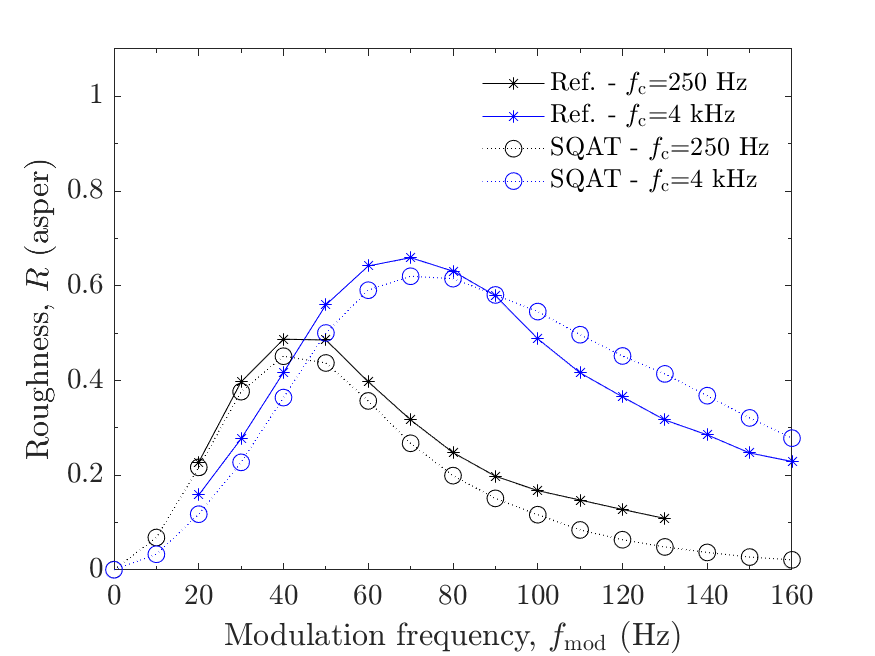
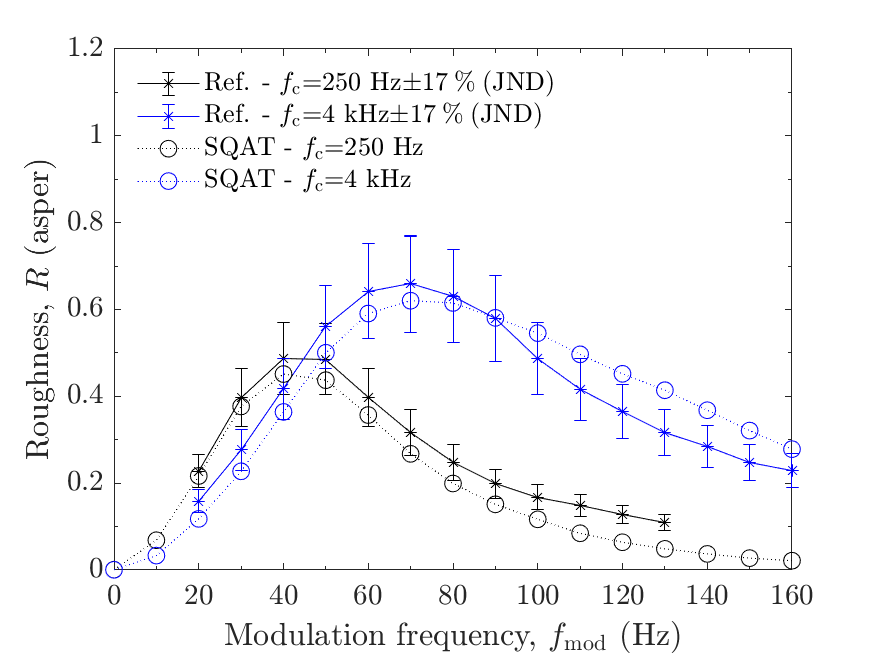
run_verification_roughness_modulation_depth
- updated script structure and folder
-  updated script to run with sound inputs from the validation_SQAT_v1_0 folder
- generate figures
_ status (running)

diff --git a/validation/Roughness_Daniel1997/1_modulation_freq/run_validation_roughness_fmod.m b/validation/Roughness_Daniel1997/1_modulation_freq/run_validation_roughness_fmod.m
@@ -13,7 +13,7 @@
 %     (refer to the function in the end of this script to see how the
 %     signals were originally generated)
 %
-% Author: Gil Greco, Braunschweig, 21/02/2020 (updated 10.09.2023)
+% Author: Gil Greco, Braunschweig, 21/02/2020 (updated 13.05.2023)
 %%%%%%%%%%%%%%%%%%%%%%%%%%%%%%%%%%%%%%%%%%%%%%%%%%%%%%%%%%%%%%%%%%%%%%%%%%%
 clc; clear all; close all;
 
@@ -217,8 +217,15 @@ set(h,'PaperPositionMode','Auto','PaperUnits','Inches','PaperSize',[pos(3), pos(
 fmod_125=20:10:100;  % modulation freq vector for reference values 
 fmod=20:10:160;  % modulation freq vector for reference values 
 
-plot(fmod_125,fmod_125hz,'k-*','MarkerSize',6);hold all;
-plot(fmod,fmod_500hz,'b-*','MarkerSize',6);hold all;
+err_125hz= (0.17*fmod_125hz);
+errorbar(fmod_125,fmod_125hz,err_125hz,'k-*','MarkerSize',6,'Linewidth',.5);hold all % results from SQAT
+
+% plot(fmod_125,fmod_125hz,'k-*','MarkerSize',6);hold all;
+
+err_500hz= (0.17*fmod_500hz);
+errorbar(fmod,fmod_500hz,err_500hz,'b-*','MarkerSize',6,'Linewidth',.5);hold all % results from SQAT
+
+% plot(fmod,fmod_500hz,'b-*','MarkerSize',6);hold all;
 
 % plot computed results
 fmod_125_computed=0:10:100;  % modulation freq vector for reference values 
@@ -227,22 +234,22 @@ fmod_computed=0:10:160;      % modulation freq vector for reference values
 plot(fmod_125_computed,results_125hz(1:11),'ko:','MarkerSize',8);hold all;
 plot(fmod_computed,results_500hz,'bo:','MarkerSize',8);
 
-legend('Ref. - $f_{\mathrm{c}}$=125 Hz',...
-       'Ref. - $f_{\mathrm{c}}$=500 Hz',...  
+legend('Ref. - $f_{\mathrm{c}}$=125 Hz$\pm17\:\%\:(\mathrm{JND})$',...
+       'Ref. - $f_{\mathrm{c}}$=500 Hz$\pm17\:\%\:(\mathrm{JND})$',...  
        'SQAT - $f_{\mathrm{c}}$=125 Hz',...
        'SQAT - $f_{\mathrm{c}}$=500 Hz',... 
        'Location','NorthEast','Interpreter','Latex');
    
 legend boxoff
 
-axis([0 160 0 1.1]);
+axis([0 160 0 1.2]);
  ax = gca;
      set(ax,'XTick',[0 20 40 60 80 100 120 140 160]);
      set(ax,'YTick',[0 0.2 0.4 0.6 .8 1]);
      ax.XAxis.MinorTick = 'on';
      ax.XAxis.MinorTickValues =  0:10:160; 
      ax.YAxis.MinorTick = 'on';
-     ax.YAxis.MinorTickValues = 0:0.1:1.1; 
+     ax.YAxis.MinorTickValues = 0:0.1:1.2; 
      
 ylabel('Roughness, $R$ (asper)','Interpreter','Latex');
 xlabel('Modulation frequency, $f_{\mathrm{mod}}$ (Hz)','Interpreter','Latex');
@@ -270,8 +277,15 @@ set(h,'PaperPositionMode','Auto','PaperUnits','Inches','PaperSize',[pos(3), pos(
 
 fmod=20:10:160;  % modulation freq vector for reference values 
 
-plot(fmod,fmod_2khz,'b-*','MarkerSize',6);hold all;
-plot(fmod,fmod_8khz,'k-*','MarkerSize',6);hold all;
+err_2khz= (0.17*fmod_2khz);
+errorbar(fmod,fmod_2khz,err_2khz,'b-*','MarkerSize',6,'Linewidth',.5);hold all % results from SQAT
+
+% plot(fmod,fmod_2khz,'b-*','MarkerSize',6);hold all;
+
+err_8khz= (0.17*fmod_8khz);
+errorbar(fmod,fmod_8khz,err_8khz,'k-*','MarkerSize',6,'Linewidth',.5);hold all % results from SQAT
+
+% plot(fmod,fmod_8khz,'k-*','MarkerSize',6);hold all;
 
 % plot computed results
 fmod_computed=0:10:160;      % modulation freq vector for reference values 
@@ -279,22 +293,22 @@ fmod_computed=0:10:160;      % modulation freq vector for reference values
 plot(fmod_computed,results_2khz,'bo:','MarkerSize',8);
 plot(fmod_computed,results_8khz,'ko:','MarkerSize',8);hold all;
 
-legend('Ref. - $f_{\mathrm{c}}$=2 kHz',...
-       'Ref. - $f_{\mathrm{c}}$=8 kHz',...  
+legend('Ref. - $f_{\mathrm{c}}$=2 kHz$\pm17\:\%\:(\mathrm{JND})$',...
+       'Ref. - $f_{\mathrm{c}}$=8 kHz$\pm17\:\%\:(\mathrm{JND})$',...  
        'SQAT - $f_{\mathrm{c}}$=2 kHz',...
        'SQAT - $f_{\mathrm{c}}$=8 kHz',... 
-       'Location','NorthEast','Interpreter','Latex');
+       'Location','NW','Interpreter','Latex');
    
 legend boxoff
 
-axis([0 160 0 1.1]);
+axis([0 160 0 1.4]);
  ax = gca;
      set(ax,'XTick',[0 20 40 60 80 100 120 140 160]);
-     set(ax,'YTick',[0 0.2 0.4 0.6 .8 1]);
+     set(ax,'YTick',[0 0.2 0.4 0.6 .8 1 1.2]);
      ax.XAxis.MinorTick = 'on';
      ax.XAxis.MinorTickValues =  0:10:160; 
      ax.YAxis.MinorTick = 'on';
-     ax.YAxis.MinorTickValues = 0:0.1:1.1; 
+     ax.YAxis.MinorTickValues = 0:0.1:1.4; 
      
 ylabel('Roughness, $R$ (asper)','Interpreter','Latex');
 xlabel('Modulation frequency, $f_{\mathrm{mod}}$ (Hz)','Interpreter','Latex');
@@ -322,27 +336,30 @@ set(h,'PaperPositionMode','Auto','PaperUnits','Inches','PaperSize',[pos(3), pos(
 
 fmod=20:10:160;  % modulation freq vector for reference values 
 
-plot(fmod,fmod_1khz,'k-*','MarkerSize',6);hold all;
+err_1khz= (0.17*fmod_1khz);
+errorbar(fmod,fmod_1khz,err_1khz,'k-*','MarkerSize',6,'Linewidth',.5);hold all % results from SQAT
+
+% plot(fmod,fmod_1khz,'k-*','MarkerSize',6);hold all;
 
 % plot computed results
 fmod_computed=0:10:160;      % modulation freq vector for reference values 
 
 plot(fmod_computed,results_1khz,'ko:','MarkerSize',8);hold all;
 
-legend('Ref. - $f_{\mathrm{c}}$=1 kHz',...
+legend('Ref. - $f_{\mathrm{c}}$=1 kHz$\pm17\:\%\:(\mathrm{JND})$',...
        'SQAT - $f_{\mathrm{c}}$=1 kHz',...  
-       'Location','NorthEast','Interpreter','Latex');
+       'Location','NW','Interpreter','Latex');
    
 legend boxoff
 
-axis([0 160 0 1.1]);
+axis([0 160 0 1.6]);
  ax = gca;
      set(ax,'XTick',[0 20 40 60 80 100 120 140 160]);
-     set(ax,'YTick',[0 0.2 0.4 0.6 .8 1]);
+     set(ax,'YTick',[0 0.2 0.4 0.6 .8 1 1.2 1.4]);
      ax.XAxis.MinorTick = 'on';
      ax.XAxis.MinorTickValues =  0:10:160; 
      ax.YAxis.MinorTick = 'on';
-     ax.YAxis.MinorTickValues = 0:0.1:1.1; 
+     ax.YAxis.MinorTickValues = 0:0.1:1.6; 
      
 ylabel('Roughness, $R$ (asper)','Interpreter','Latex');
 xlabel('Modulation frequency, $f_{\mathrm{mod}}$ (Hz)','Interpreter','Latex');
@@ -371,9 +388,15 @@ set(h,'PaperPositionMode','Auto','PaperUnits','Inches','PaperSize',[pos(3), pos(
 fmod_250=20:10:130;  % modulation freq vector for reference values 
 fmod=20:10:160;  % modulation freq vector for reference values 
 
+err_250hz= (0.17*fmod_250hz);
+errorbar(fmod_250,fmod_250hz,err_250hz,'k-*','MarkerSize',6,'Linewidth',.5);hold all % results from SQAT
 
-plot(fmod_250,fmod_250hz,'k-*','MarkerSize',6);hold all;
-plot(fmod,fmod_4khz,'b-*','MarkerSize',6);hold all;
+% plot(fmod_250,fmod_250hz,'k-*','MarkerSize',6);hold all;
+
+err_4khz= (0.17*fmod_4khz);
+errorbar(fmod,fmod_4khz,err_4khz,'b-*','MarkerSize',6,'Linewidth',.5);hold all % results from SQAT
+
+% plot(fmod,fmod_4khz,'b-*','MarkerSize',6);hold all;
 
 % plot computed results
 fmod_computed=0:10:160;      % modulation freq vector for reference values 
@@ -381,22 +404,22 @@ fmod_computed=0:10:160;      % modulation freq vector for reference values
 plot(fmod_computed,results_250hz,'ko:','MarkerSize',8);hold all;
 plot(fmod_computed,results_4khz,'bo:','MarkerSize',8);
 
-legend('Ref. - $f_{\mathrm{c}}$=250 Hz',...
-       'Ref. - $f_{\mathrm{c}}$=4 kHz',...  
+legend('Ref. - $f_{\mathrm{c}}$=250 Hz$\pm17\:\%\:(\mathrm{JND})$',...
+       'Ref. - $f_{\mathrm{c}}$=4 kHz$\pm17\:\%\:(\mathrm{JND})$',...  
        'SQAT - $f_{\mathrm{c}}$=250 Hz',...
        'SQAT - $f_{\mathrm{c}}$=4 kHz',... 
-       'Location','NorthEast','Interpreter','Latex');
+       'Location','NW','Interpreter','Latex');
    
 legend boxoff
 
-axis([0 160 0 1.1]);
+axis([0 160 0 1.2]);
  ax = gca;
      set(ax,'XTick',[0 20 40 60 80 100 120 140 160]);
-     set(ax,'YTick',[0 0.2 0.4 0.6 .8 1]);
+     set(ax,'YTick',[0 0.2 0.4 0.6 .8 1 1.2]);
      ax.XAxis.MinorTick = 'on';
      ax.XAxis.MinorTickValues =  0:10:160; 
      ax.YAxis.MinorTick = 'on';
-     ax.YAxis.MinorTickValues = 0:0.1:1.1; 
+     ax.YAxis.MinorTickValues = 0:0.1:1.2; 
      
 ylabel('Roughness, $R$ (asper)','Interpreter','Latex');
 xlabel('Modulation frequency, $f_{\mathrm{mod}}$ (Hz)','Interpreter','Latex');
@@ -414,8 +437,8 @@ if save_figs==1
     fprintf('%s.m: figure %s was saved on disk\n\t(full name: %s)\n',mfilename,figname_short,figname_out);
 end
 
-%% %%%%%%%%%%%%%%%%%%%%%%%%%%%%%%%%%%%%%%%%%%%%%%%%%%%%%%%%%%%%%%%%%%%%%%%%%
-% not used in this script, but was originally used to generate the signals
+%% function used to generate the signals (only for reference, not used here)
+
 function insig = il_make_AM_fmod(fc)
 % Generates signals for roughness algorithm validation
 %

diff --git a/validation/Roughness_Daniel1997/2_modulation_depth/run_verification_roughness_modulation_depth.m b/validation/Roughness_Daniel1997/2_modulation_depth/run_verification_roughness_modulation_depth.m
@@ -1,0 +1,164 @@
+% Script run_verification_roughness_modulation_depth
+%  
+%   Roughness dependence on the modulation depth for AM tonesGenerates amplitude modulated (AM) signals for roughness algorithm validation
+%
+%   - 1 kHz sinosoidal tone modulated at 70 Hz (60 dBSPL) with varying
+%       modulation depth, md (from 0 to 1, in 0.05 increments)
+%
+%   - Ref. values are the power law md^(~1.6), from 
+%       Zwicker, E. and Fastl, H. Second ed, Psychoacoustics, Facts and Models, page 258
+%
+%   - An increment of roughness becomes audible for an increment in the degree
+%       of modulation of about 10%, which corresponds to an increment of about
+%       17% in roughness. Source: Zwicker, E. and Fastl, H. Second ed,
+%       Psychoacoustics, Facts and Models, page 260
+%
+%
+% Author: Gil Felix Greco, Braunschweig 17.02.2020 (updated in 13.05.2023)
+%
+%%%%%%%%%%%%%%%%%%%%%%%%%%%%%%%%%%%%%%%%%%%%%%%%%%%%%%%%%%%%%%%%%%%%%%%%%%%
+clc; clear all; close all;
+
+%% save figs flag
+
+save_figs=0;
+
+%% path settings 
+
+SQAT_version=1; % v1.0
+dir_sounds = get_dir_validation_sounds('Roughness_Daniel1997',SQAT_version);
+dir_out = [fileparts(mfilename('fullpath')) filesep];
+ 
+%% load signals (not .wav)
+
+load([dir_sounds 'vary_modulation_depth.mat']);
+
+%% compute roughness using SQAT
+
+res=cell(1,size(s,1));
+
+for i=1:size(s,1)
+    res{i} = Roughness_Daniel1997(s(i,:)',fs,0,false);
+end
+
+%% plot results
+
+h  =gcf;
+set(h,'Units','Inches');
+pos = get(h,'Position');
+set(h,'PaperPositionMode','Auto','PaperUnits','Inches','PaperSize',[pos(3), pos(4)])
+
+% create a vector of results with time-averaged roughness values
+for i=1:size(s,1)
+    results(i)=res{1,i}.Rmean;
+end
+
+md=0:.05:1;  % modulation depth vector 
+
+% ref curve, and jnd of 17% for roughness
+a=1;
+power_law=a.*md.^(1.6);
+
+err= (0.17*power_law);
+errorbar(md,power_law,err,'k-*','MarkerSize',6,'Linewidth',.5);hold all % results from SQAT
+
+% plot results SQAT
+plot(md,results,'ko:','MarkerSize',8);hold all % results from SQAT
+
+legend('Ref. - $m_{\mathrm{d}}^{1.6}\pm17\:\%\:(\mathrm{JND})$','SQAT','Location','NW','Interpreter','Latex');
+legend boxoff
+
+axis([0 1 0 1.2]);
+ax = gca;
+set(ax,'XTick',[0 0.2 0.4 0.6 .8 1]);
+set(ax,'YTick',[0 0.2 0.4 0.6 .8 1 1.2 1.4 1.6]);
+ax.XAxis.MinorTick = 'on';
+ax.XAxis.MinorTickValues =  0:0.05:1;
+ax.YAxis.MinorTick = 'on';
+ax.YAxis.MinorTickValues = 0:0.1:25;
+     
+ylabel('Roughness, $R$ (asper)','Interpreter','Latex');
+xlabel('Modulation depth, $m_{\mathrm{d}}$','Interpreter','Latex');
+
+set(gcf,'color','w');
+
+if save_figs==1
+    
+    % Figure where the figures (and the results) will be stored:
+    figures_dir = [dir_out 'figs' filesep];
+    if ~exist(figures_dir,'dir')
+        mkdir(figures_dir);
+    end
+    
+    figname_short = 'verification_roughness_dependence_md';
+    figname_out = [figures_dir figname_short];
+    
+    %     saveas(gcf,figname_out, 'fig');
+    %     saveas(gcf,figname_out, 'pdf');
+    saveas(gcf,figname_out, 'png');
+    
+    fprintf('%s.m: figure %s was saved on disk\n\t(full name: %s)\n',mfilename,figname_short,figname_out);
+end
+
+%% function used to generate the signals (only for reference, not used here)
+
+function [s,fs] = make_AM_varying_md
+
+%% %%%%%%%%%%%%%%%%%%%%%%%%%%%%%%%%%%%%%%%%%%%%%%%%%%%%%%%%%%%%%%%%%%%%%%%%%
+% Generates amplitude modulated (AM) signals for roughness algorithm validation
+%
+% Roughness dependence on the modulation depth for AM tonesGenerates amplitude modulated (AM) signals for roughness algorithm validation
+%
+%   - 1 kHz sinosoidal tone modulated at 70 Hz (60 dBSPL) with varying
+%       modulation depth, md (from 0 to 1, in 0.05 increments)%
+%
+% Gil Felix Greco, Braunschweig 17.02.2020 (updated in 10.03.2023)
+%
+%%%%%%%%%%%%%%%%%%%%%%%%%%%%%%%%%%%%%%%%%%%%%%%%%%%%%%%%%%%%%%%%%%%%%%%%%%%
+
+save_figs=0;  % save fig flag
+
+%% Specify signal temporal characteristics
+
+L=10;                            % Length (seconds)
+fs=48000;                        % Sampling frequency
+dt=1/fs;                         % Time step
+t = 0:dt:L;                      % Time vector
+
+%% Make carrier signal 
+
+fc=1000;                   % carrier center frequency (Hz)
+
+s1=cos(2*pi*fc.*t); % carrier signal 70 dB
+
+%% make modulation signal
+
+m=[0 0.05 .1 .15 .2 .25 .3 .35 .4 .45 .5 .55 .6 .65 .7 .75 .8 .85 .9 .95 1];    % modulation depth
+fm=70;                                 % modulation frequency (Hz)
+
+for i=1:length(m)
+    
+    s2(i,:) = (1-m(i)./2+m(i)./2.*cos(2*pi*fm.*t));
+
+end
+
+%% modulated signal
+
+s=s1.*s2;
+
+levelOut = 60;                % desired signal level (dBSPL)
+
+for i=1:length(m)
+    
+    levelIn = 20*log10(rms(s(i,:))/2e-5);
+    s(i,:) = s(i,:) * 10^((levelOut-levelIn)/20);
+
+end
+
+for i=1:length(m)
+    
+    SPL(i)=20.*log10(rms(s(i,:))/2e-5);
+
+end
+
+end
